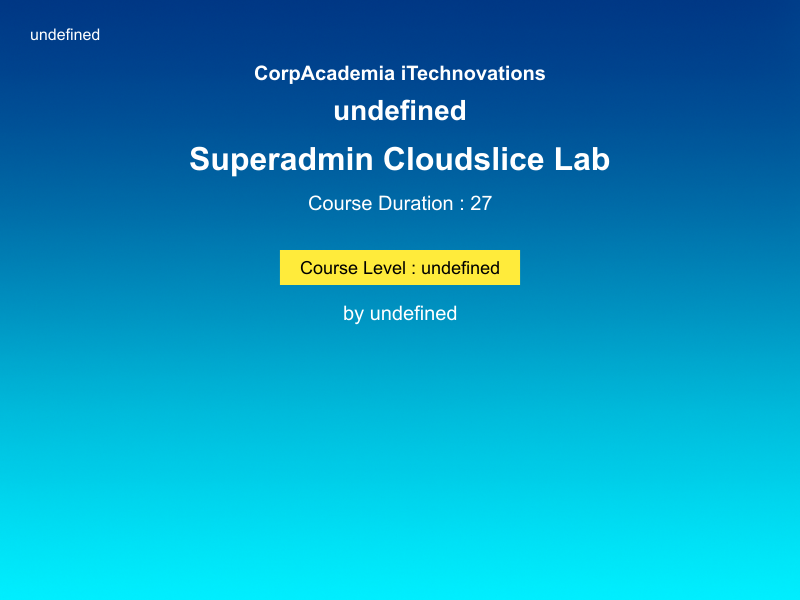
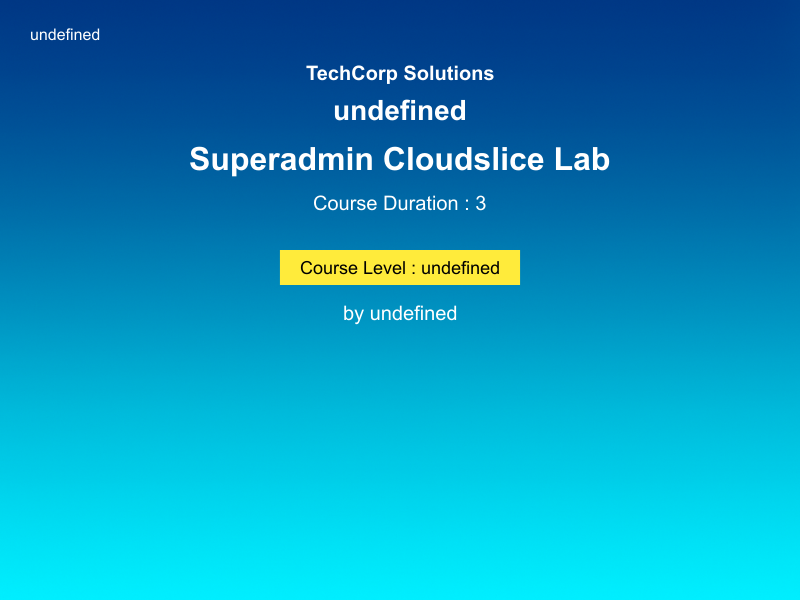
changes

Changed region(s): [[0.3125, 0.09, 0.6875, 0.15], [0.375, 0.3, 0.625, 0.36]]

diff --git a/lab-service/src/services/labCartQueries.js b/lab-service/src/services/labCartQueries.js
@@ -12,8 +12,8 @@ module.exports = {
                     duration,
                     org_id
                     ) VALUES ($1, $2, $3, $4, $5, $6, $7, $8,$9,$10) RETURNING *`,
-    CREATE_SINGLEAWS_LAB_PURCHASE:`INSERT INTO lab_batch_purchased(lab_id,admin_id,org_id,org_name,configured_by,number_of_days,number_of_users,expiry_date,status,payment_id,lab_title)
-                                  VALUES ($1,$2,$3,$4,$5,$6,$7, NOW() + ($8 * INTERVAL '1 day'),$9,$10,$11) RETURNING *`,
+    CREATE_SINGLEAWS_LAB_PURCHASE:`INSERT INTO lab_batch_purchased(lab_id,admin_id,org_id,org_name,configured_by,number_of_days,number_of_users,expiry_date,status,payment_id,lab_title,type)
+                                  VALUES ($1,$2,$3,$4,$5,$6,$7, NOW() + ($8 * INTERVAL '1 day'),$9,$10,$11,$12) RETURNING *`,
     INSERT_ASSIGNLAB_SINGLEVM_AWS:`INSERT INTO singlevm_aws_purchased_labs (labid, user_id, payment_id,  duration) VALUES ($1, $2, $3, $4) RETURNING *`,
     INSERT_ASSINGLAB_CLOUDSLICE_AWS:`INSERT INTO cloudslice_purchased_labs (labid,user_id,duration,payment_id) VALUES($1,$2,$3,$4) RETURNING *`,
     INSERT_ASSINGLAB_SINGLEVM_PROXMOX_PURCHASED:`INSERT INTO singlevmproxmox_purchased_labs (labid,user_id,duration,payment_id,vmname) VALUES($1,$2,$3,$4,$5) RETURNING *`,

diff --git a/lab-service/src/services/batchesQueries.js b/lab-service/src/services/batchesQueries.js
@@ -269,11 +269,14 @@ SELECT
   csl.enddate AS end_date,
   'cloudslice' AS type,
   COALESCE(csoa.purchased, false) AS purchased,
-  NULL AS quantity
+  COALESCE(lbp.number_of_users - lbp.assigned_users, 0) AS quantity
 FROM cloudslicelab csl
 LEFT JOIN cloudsliceorgassignment csoa
   ON csoa.labid = csl.labid
   AND csoa.orgid = $2
+LEFT JOIN lab_batch_purchased lbp
+  ON lbp.lab_id = csl.labid
+  AND lbp.org_id = $2
 WHERE
   $3 = true
   OR csl.createdby = $1
@@ -370,8 +373,11 @@ SELECT
     csl.startdate AS start_date,
     csl.enddate AS end_date,
     'cloudslice' AS type,
-    NULL AS quantity
+    COALESCE(lbp.number_of_users - lbp.assigned_users, 0) AS quantity
 FROM cloudslicelab csl
+LEFT JOIN lab_batch_purchased lbp
+    ON lbp.lab_id = csl.labid
+    AND lbp.org_id = $2
 WHERE csl.labid = $1::uuid
 
 UNION ALL
@@ -384,10 +390,12 @@ SELECT
     sp.startdate AS start_date,
     sp.enddate AS end_date,
     'singlevm-proxmox' AS type,
-    NULL AS quantity
+    COALESCE(lbp.number_of_users - lbp.assigned_users, 0) AS quantity
 FROM singlevmproxmox_lab sp
+LEFT JOIN lab_batch_purchased lbp
+    ON lbp.lab_id = sp.labid
+    AND lbp.org_id = $2
 WHERE sp.labid = $1::uuid
-
 UNION ALL
 
 /* ---------- Single VM Datacenter ---------- */

diff --git a/lab-service/src/services/purchaseService.js b/lab-service/src/services/purchaseService.js
@@ -181,8 +181,10 @@ const approveOrRejectExtensionRequest = async(req,res)=>{
                     approved_users,
                     admin_note,
                     status,
+                    type
         } = req.body;
-        if(!request_id  || !status){
+        console.log(req.body)
+        if(!request_id  || !status ||!type){
             return res.status(400).send({
                 success:false,
                 message:"Please provide all required fields"
@@ -199,7 +201,10 @@ const approveOrRejectExtensionRequest = async(req,res)=>{
         }
         if(status === 'approved'){
             await pool.query(purchaseQueries.UPDATE_CURRENT_DAYS_USERS,[approved_days,approved_users,purchased_id]);
-            await pool.query(purchaseQueries.UPDATE_EXPIRY_LAB,[approved_days,purchased_id]);
+            if(type === "singlevm-aws")
+               await pool.query(purchaseQueries.UPDATE_EXPIRY_LAB,[approved_days,purchased_id]);
+            else if(type === "cloudslice")
+                await pool.query(purchaseQueries.UPDATE_EXPIRY_LAB_CLOUDSLICE,[approved_days,purchased_id]);
             }
         
         await pool.query('COMMIT');

diff --git a/lab-service/src/services/purchaseQueries.js b/lab-service/src/services/purchaseQueries.js
@@ -22,6 +22,7 @@ module.exports = {
     UPDATE_ASSIGNED_USERS:`UPDATE lab_batch_purchased SET assigned_users = GREATEST(COALESCE(assigned_users,0)+$1,0) WHERE lab_id=$2 AND org_id=$3 RETURNING *`,
     UPDATE_CURRENT_DAYS_USERS:`UPDATE lab_batch_purchased SET number_of_days = GREATEST(COALESCE(number_of_days,0) + $1,0),number_of_users = GREATEST(COALESCE(number_of_users,0) + $2,0),expiry_date = expiry_date + ($1 || ' days')::interval WHERE purchased_id=$3`,
     UPDATE_EXPIRY_LAB:`UPDATE lab_batch  SET enddate = enddate + ($1 || 'days')::interval WHERE purchased_id=$2`,
+    UPDATE_EXPIRY_LAB_CLOUDSLICE:`UPDATE cloudsliceorgassignment  SET enddate = enddate + ($1 || 'days')::interval WHERE purchased_id=$2`,
     UPDATE_EXTENSION_APPORREJ:`UPDATE lab_extension_requests SET status=$1,admin_note=$2 WHERE request_id=$3 RETURNING *`,
 }
     

diff --git a/lab-service/src/controllers/labCartController.js b/lab-service/src/controllers/labCartController.js
@@ -342,7 +342,6 @@ const extensionStripeCheckout = async(req,res)=>{
   }
 }
 
-
 const stripeCheckout = async (req, res) => {
   try {
     const { userId, cartItems,org } = req.body;
@@ -508,7 +507,7 @@ const insertPaymentAndAssignLab = async (session) => {
         let insertLab;
         if(org){
           insertLab = await pool.query(cartQueries.CREATE_SINGLEAWS_LAB_PURCHASE,[
-              lab_id,user?.id,user?.org_id,user?.organization,user_id,duration,quantity,duration,'active',paymentId,name
+              lab_id,user?.id,user?.org_id,user?.organization,user_id,duration,quantity,duration,'active',paymentId,name,type
             ])
         }
         

diff --git a/lab-service/src/services/batchesService.js b/lab-service/src/services/batchesService.js
@@ -632,7 +632,7 @@ const getBatchLabs = async(req,res)=>{
 //get labs for batches
 const getLabsForBatch = async (req,res)=>{
     try {
-         const {userId,orgId,role} = req.body;
+        const {userId,orgId,role} = req.body;
     if(!userId  || !role){
         return res.status(400).send({
             success:false,
